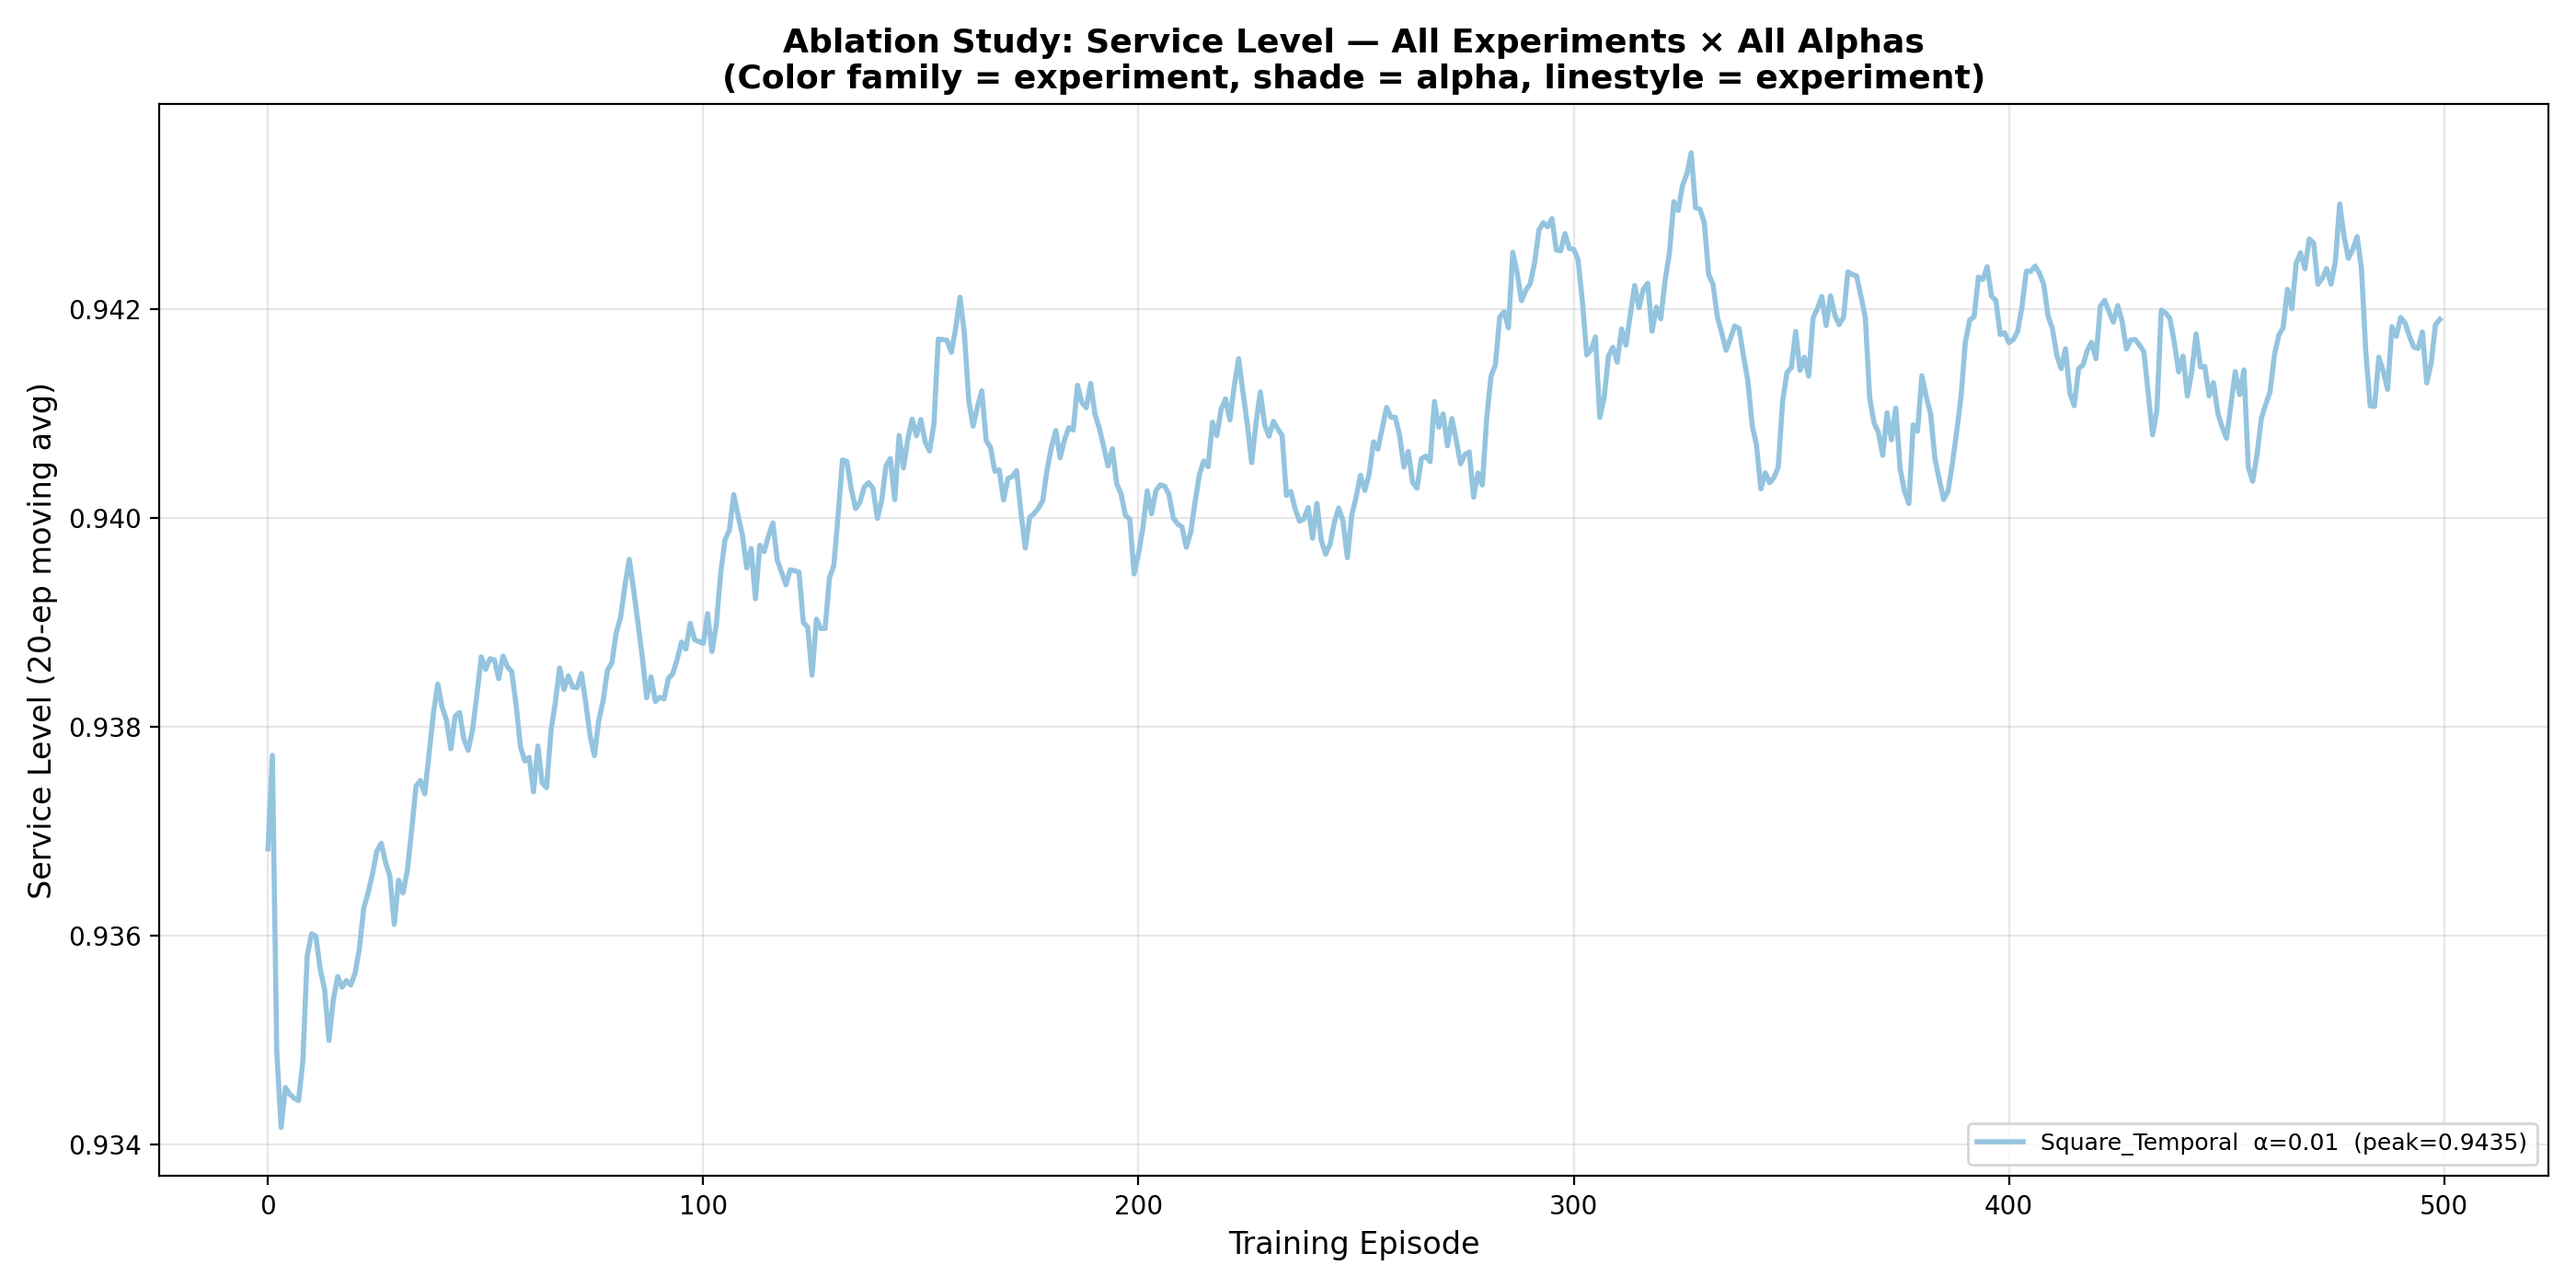
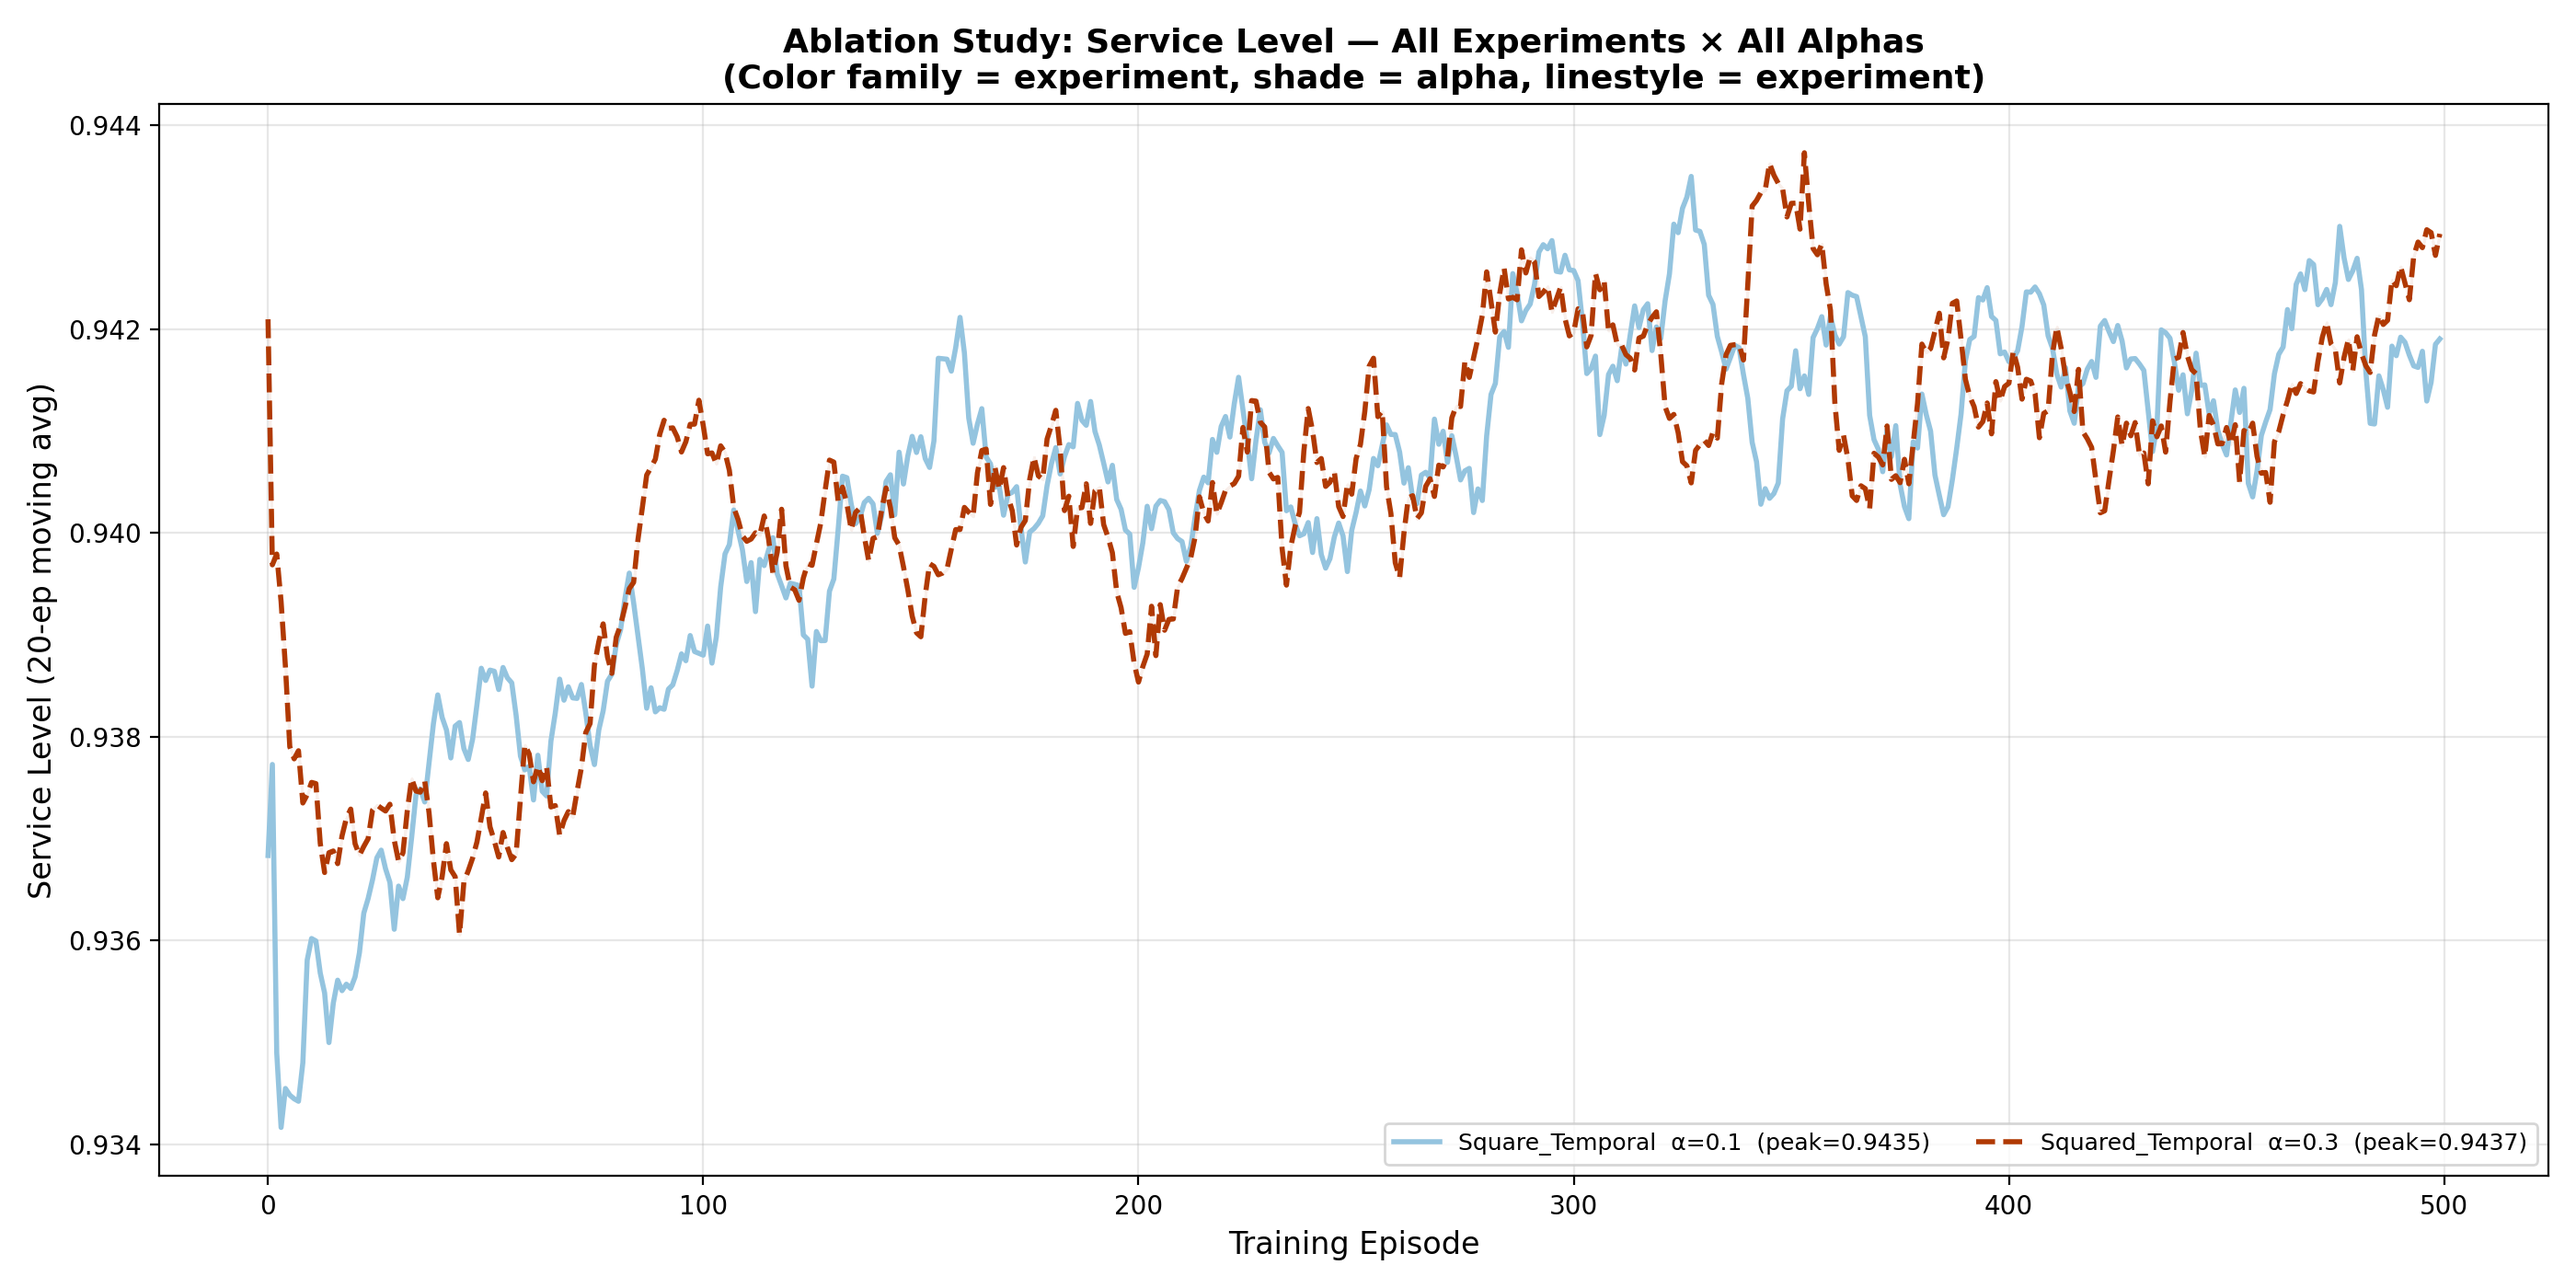
plotting fix

diff --git a/policies/sjovik_sund/ablation_study/plot_ablation_study.py b/policies/sjovik_sund/ablation_study/plot_ablation_study.py
@@ -40,13 +40,23 @@ def discover_runs(study_dir: Path, filter_alphas=None, filter_experiments=None):
 
 def load_experiment(exp_dir: Path):
     """
-    Load all seed CSVs in exp_dir.
-    Returns (final_episodes, sl_mean, sl_std, weights_mean, feature_names, found_seeds)
-    or None if no data found.
+    Load all seed CSVs in exp_dir while ignoring specific metadata/metric columns.
     """
     csv_files = sorted(exp_dir.glob("*_weights_evolution.csv"))
     if not csv_files:
         return None
+
+    # Define the columns you want to ignore
+    cols_to_ignore = [
+        "alpha", "alpha_initial", "epsilon", "epsilon_initial", "starvations",
+        "long_congestions", "short_congestions", "total_trips", "bike_departures",
+        "bike_arrivals", "total_onsite_repairs", "total_depot_pickups",
+        "total_depot_deliveries", "total_depot_visits", "total_functional_pickups",
+        "total_functional_deliveries", "broken_ratio_start_onsite",
+        "broken_ratio_start_depot", "functional_ratio_start",
+        "broken_ratio_end_onsite", "broken_ratio_end_depot", "functional_ratio_end",
+        "new_breakdowns_onsite", "new_breakdowns_depot", "restored_onsite", "restored_depot"
+    ]
 
     loaded_data = []
     found_seeds = []
@@ -57,11 +67,17 @@ def load_experiment(exp_dir: Path):
         found_seeds.append(seed_match.group(1) if seed_match else "?")
 
         df = pd.read_csv(csv_file)
+        
+        # Drop the unwanted columns here
+        df = df.drop(columns=cols_to_ignore, errors="ignore")
+
         episodes = df["episode"].values
         service_levels = df["service_level"].values
 
         window = min(20, len(episodes))
         sl_smoothed = pd.Series(service_levels).rolling(window=window, min_periods=1).mean().values
+        
+        # w_vals now only contains the actual weight features
         w_vals = df.drop(columns=["episode", "service_level"]).values
 
         loaded_data.append((sl_smoothed, w_vals, episodes, df))
@@ -93,7 +109,7 @@ def load_experiment(exp_dir: Path):
 
 def plot_ablation_comparison(filter_alphas=None, filter_experiments=None):
     #study_dir = WORKSPACE_ROOT / "models/ablation_study_batch_alpha_0.005_seed5000"
-    study_dir = WORKSPACE_ROOT / "models/final_ablation_500ep"
+    study_dir = WORKSPACE_ROOT / "models/Convergencemethods/LSTD"
     if not study_dir.exists():
         print(f"Error: Could not find ablation study directory at {study_dir}")
         return
